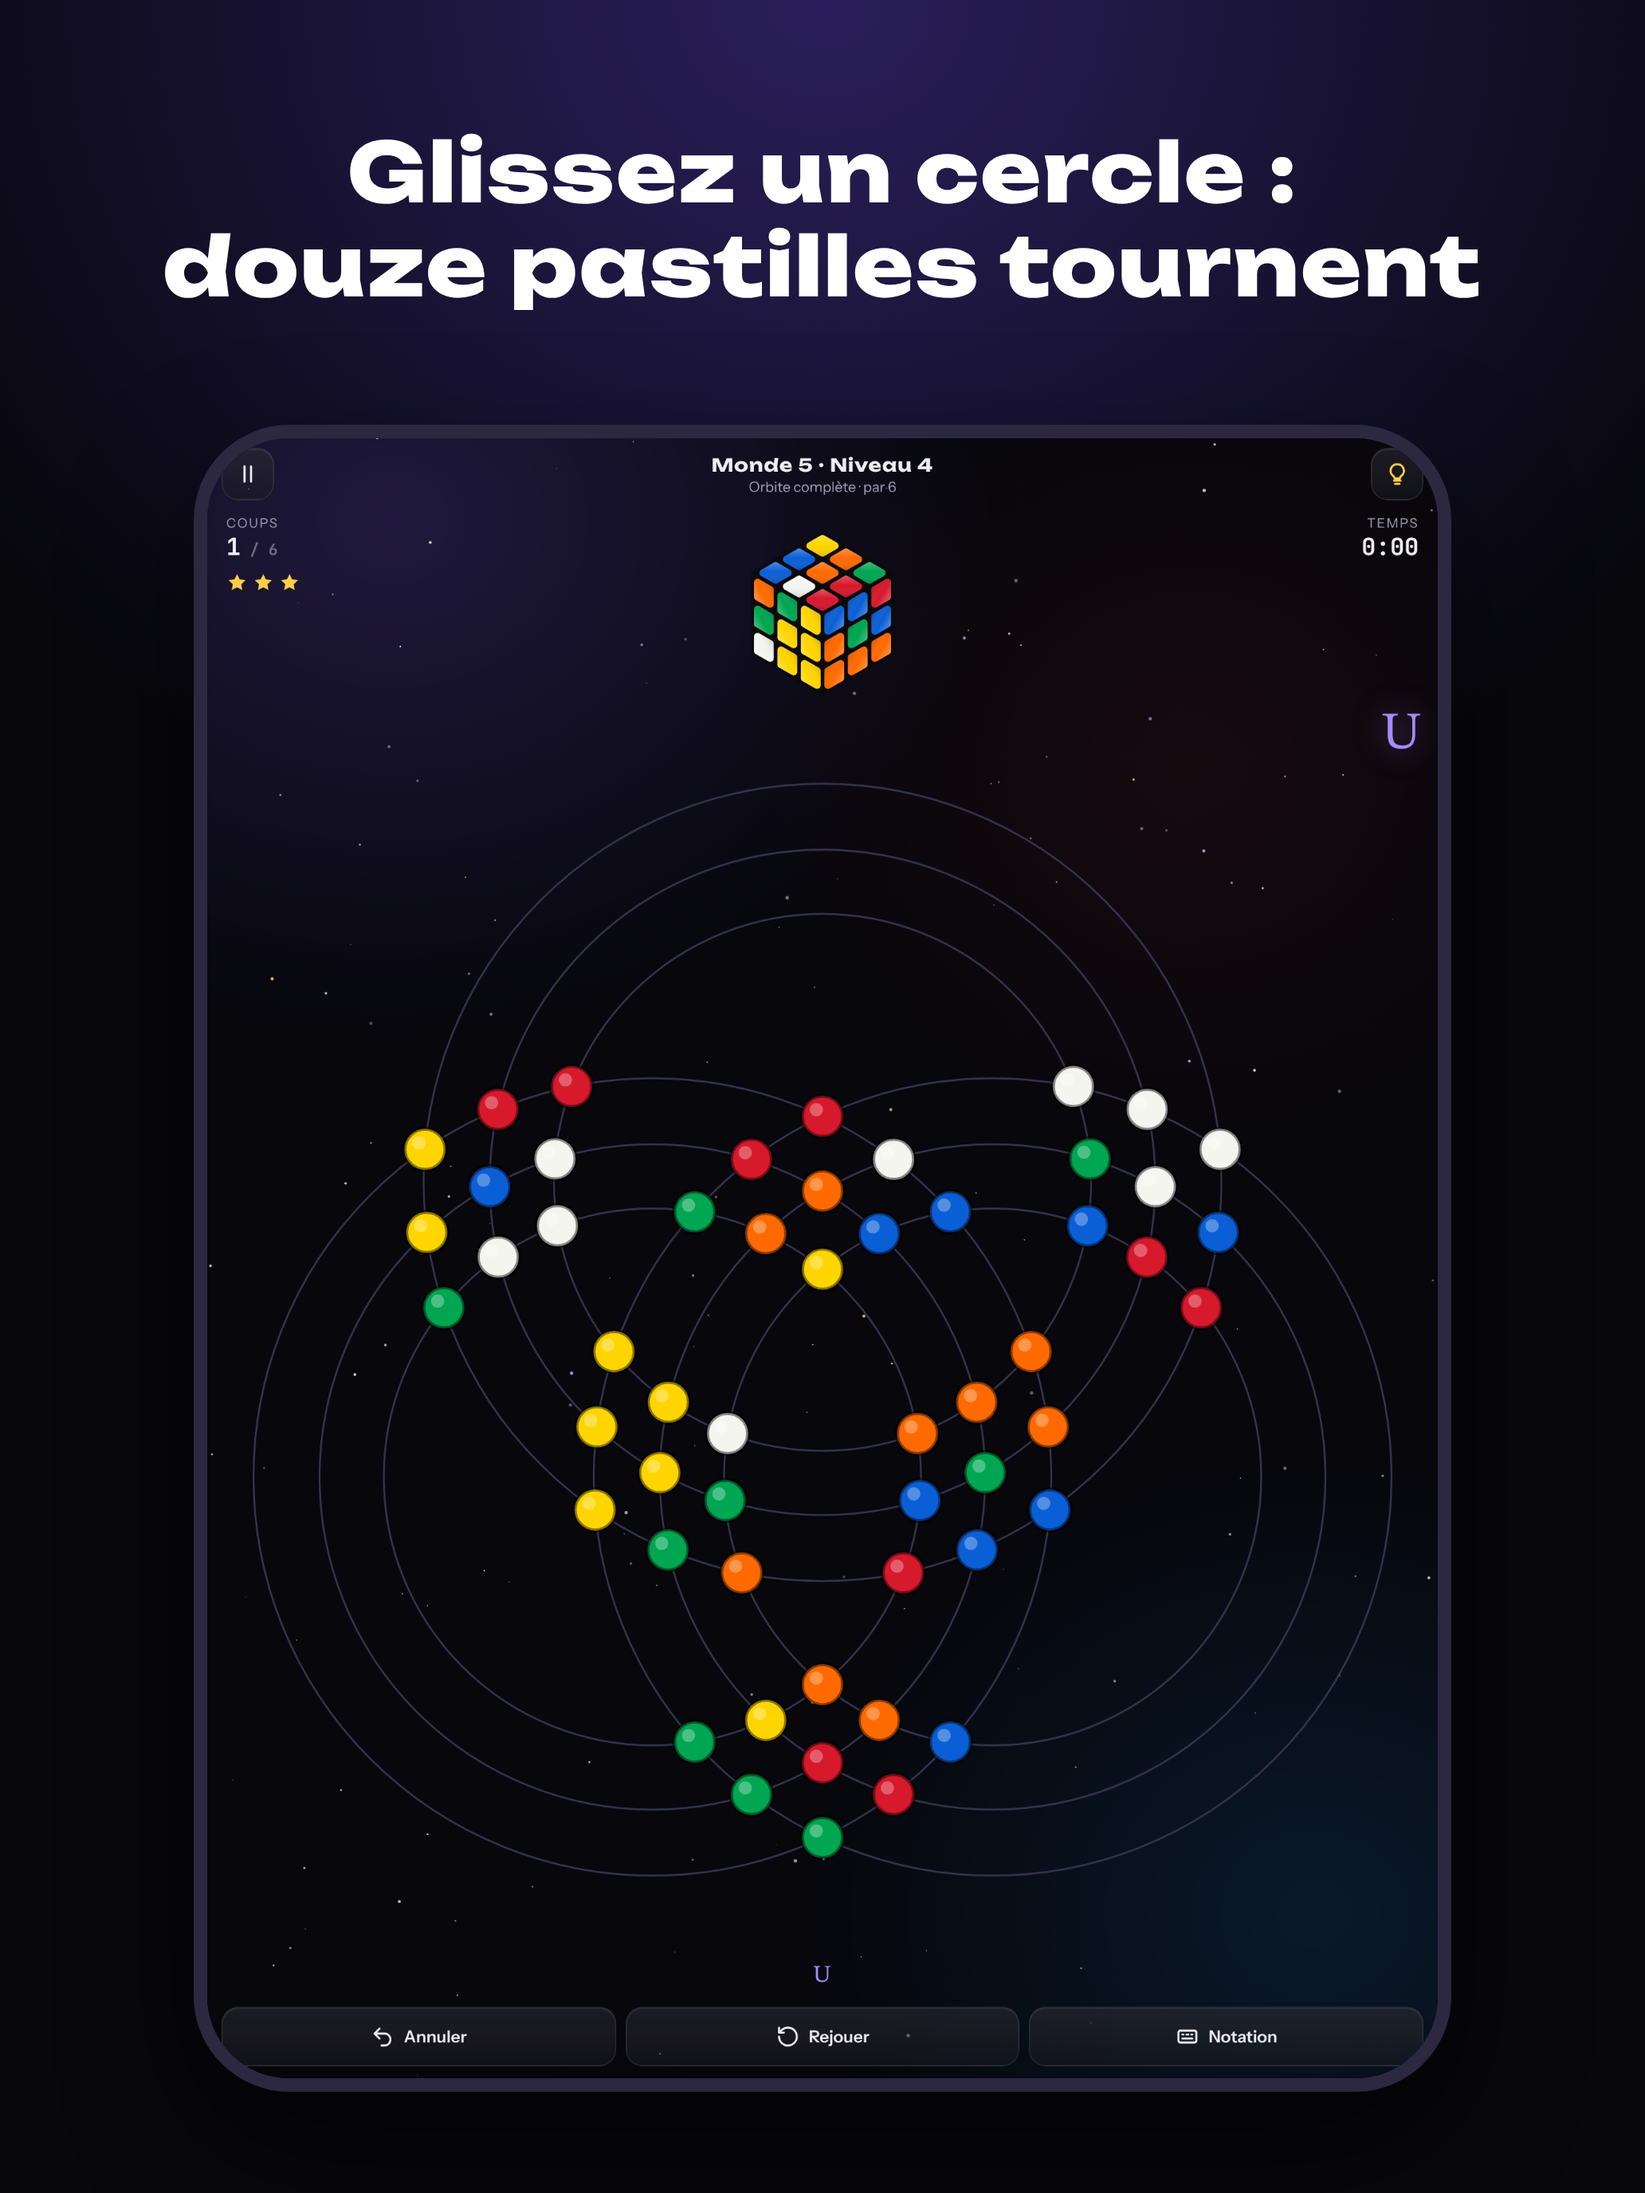
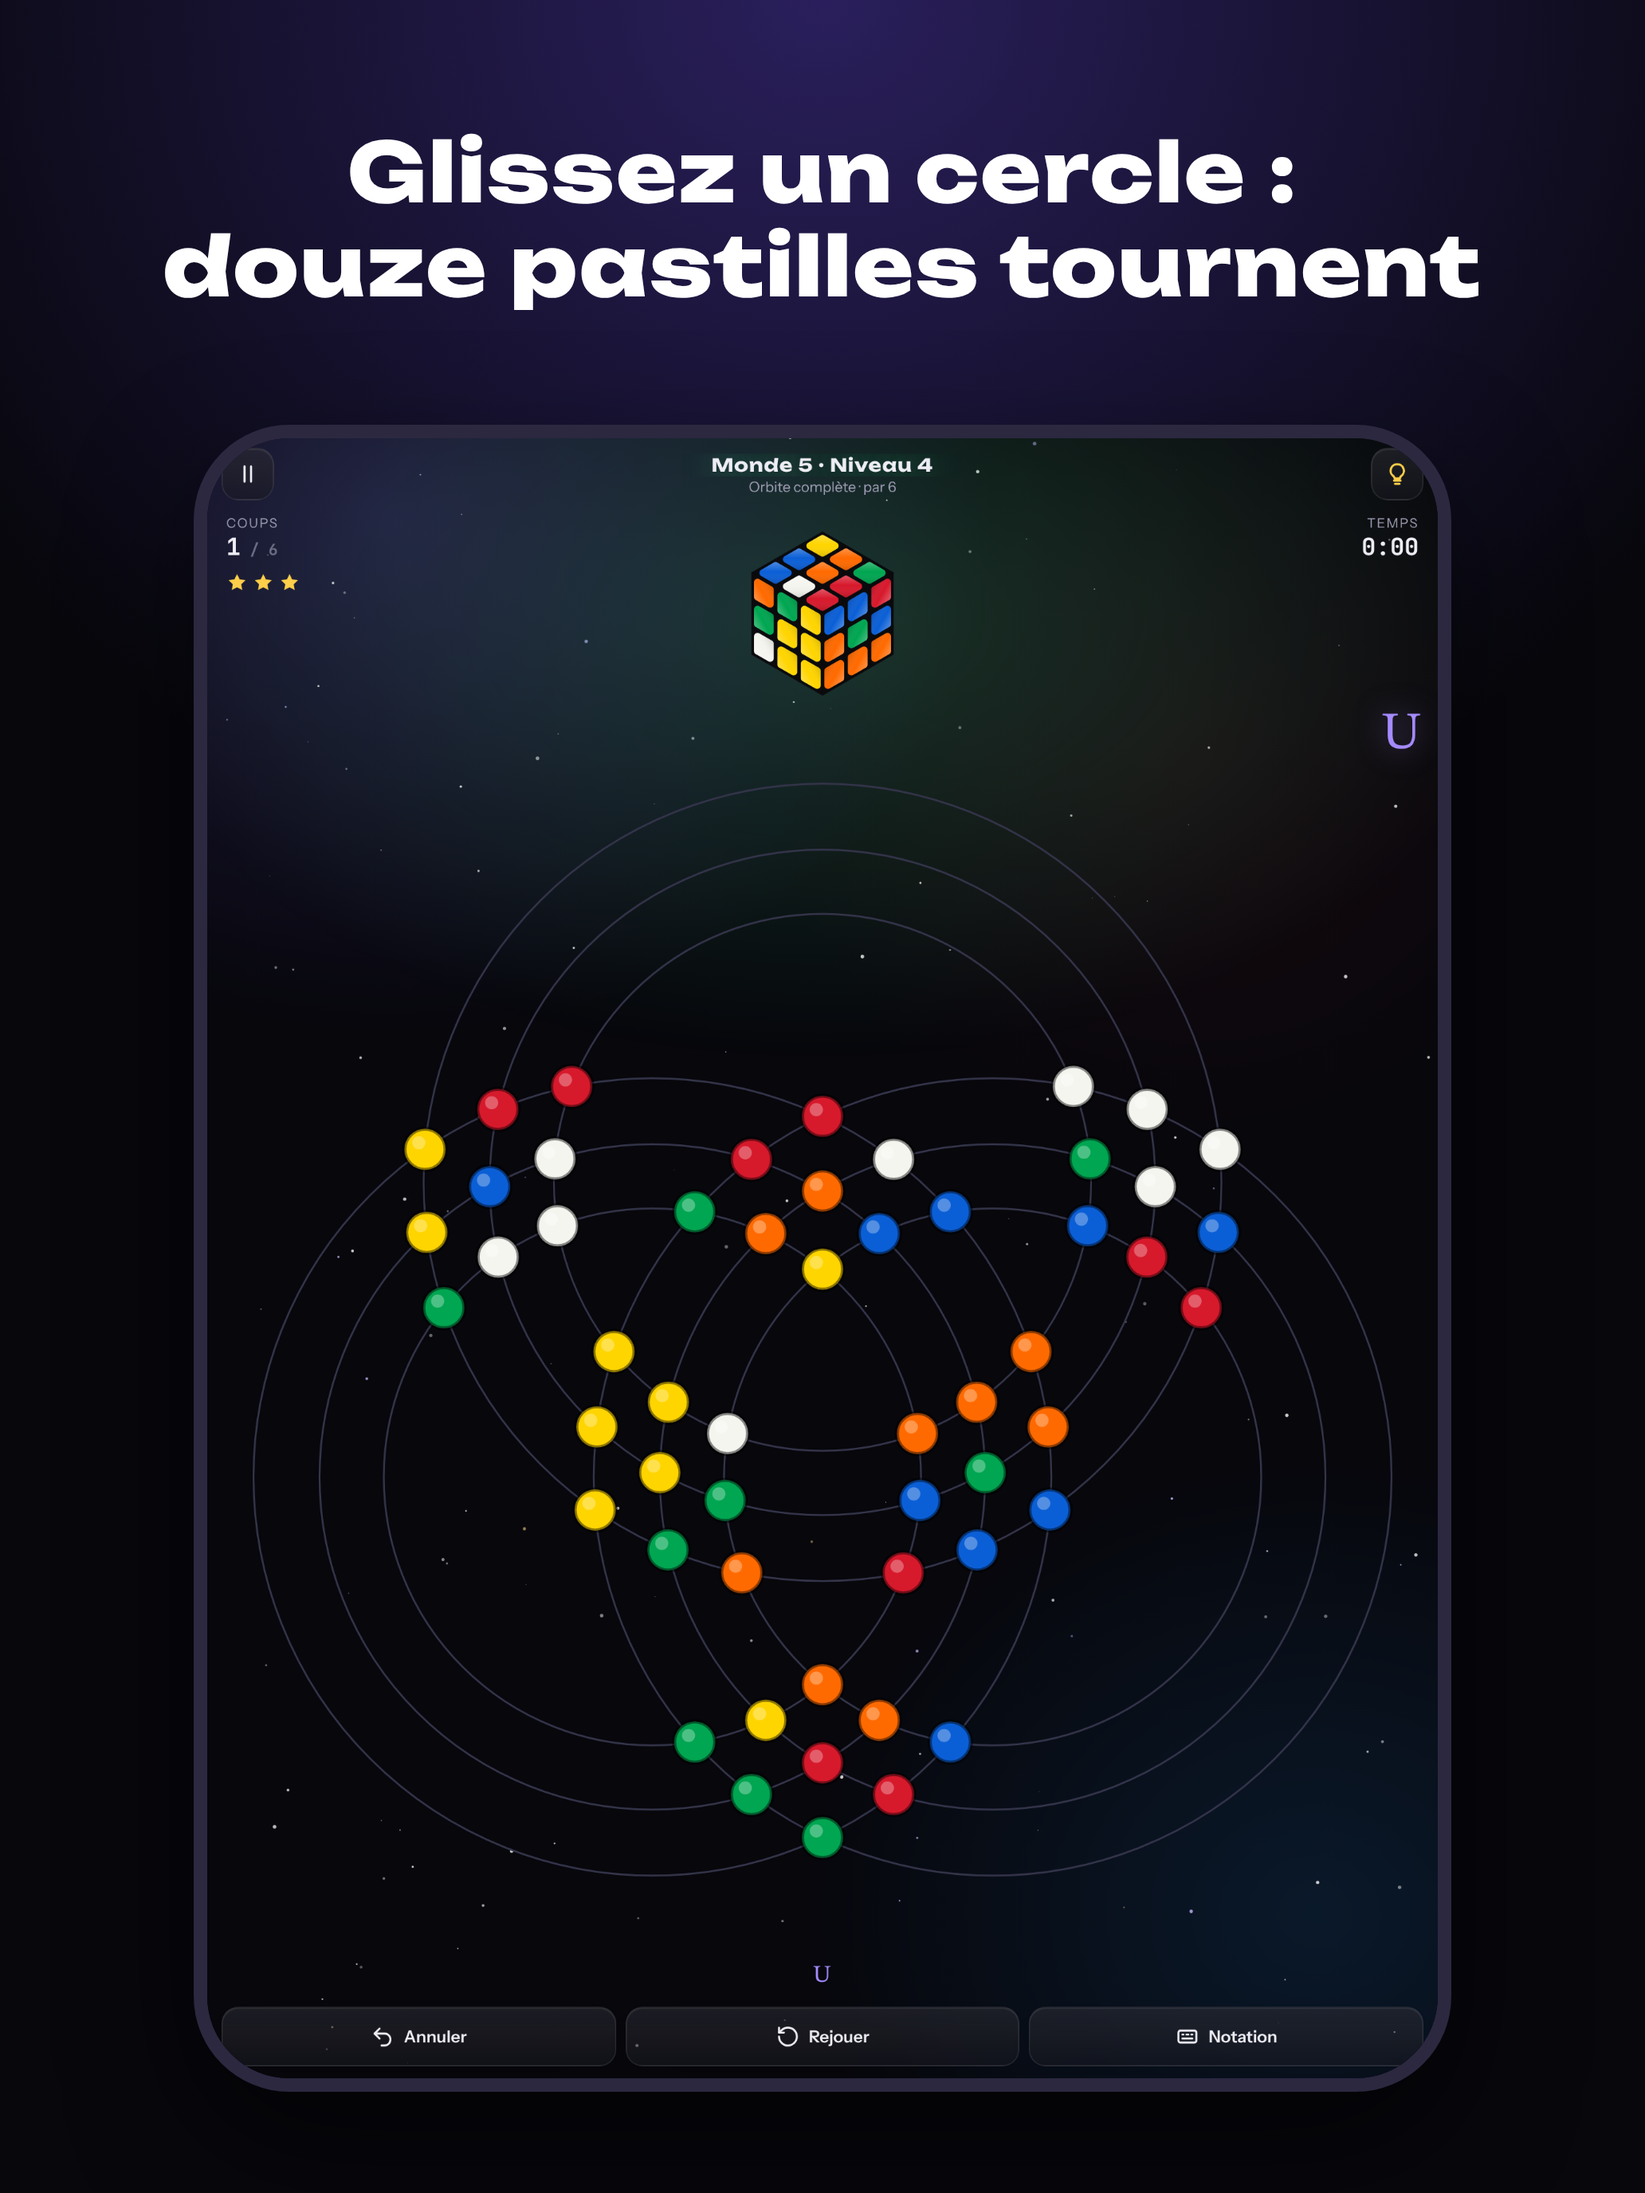
Une couleur d'ambiance par monde, reflet sur le titre
Chaque monde a son accent (lilas, cyan, rose, orange, vert, or) : sa carte, ses niveaux, le cercle
saisi, la vague de victoire et une lueur douce derrière l'écran le prennent. Accueil, défi du jour
et partie libre gardent le lilas. Un reflet passe lentement sur le nom du jeu.

Claude-Session: https://claude.ai/code/session_0149xvqQAFsWoXJkF64USQEK

Changed region(s): [[0.3101, 0.1875, 0.6822, 0.375]]

diff --git a/orbicube/www/index.html b/orbicube/www/index.html
@@ -288,7 +288,7 @@ a.bouton{text-decoration:none;color:inherit}
 /* ===== Habillage moderne (11/10/2026) : surfaces en verre dépoli, bords lumineux, profondeur douce =====
    Pas de backdrop-filter sur les surfaces : le ciel étoilé est animé, et un flou recalculé à chaque image
    sous une dizaine de cartes ferait ramer un téléphone. Le verre est simulé par un dégradé translucide. */
-:root{--verre:linear-gradient(180deg,rgba(255,255,255,.075),rgba(255,255,255,.025));--bord:rgba(255,255,255,.09);
+:root{--acc:165,139,255;--verre:linear-gradient(180deg,rgba(255,255,255,.075),rgba(255,255,255,.025));--bord:rgba(255,255,255,.09);
   --reflet:inset 0 1px 0 rgba(255,255,255,.07);--ombre:0 14px 34px -22px rgba(0,0,0,.9);--r:18px}
 .bouton,.ico,.action,.monde,.niveau,.groupe,.tuile,.suc,.puce,.segment{background:var(--verre),rgba(14,14,24,.55);border-color:var(--bord);
   box-shadow:var(--reflet),var(--ombre)}
@@ -299,12 +299,21 @@ a.bouton{text-decoration:none;color:inherit}
 .bouton.principal svg{fill:#fff}
 .bouton.or{background:linear-gradient(135deg,rgba(255,207,74,.13),rgba(255,207,74,.03)),rgba(14,14,24,.55);border-color:rgba(255,207,74,.32)}
 .niveau{border-radius:16px}
-.niveau.fait{background:linear-gradient(180deg,rgba(165,139,255,.16),rgba(165,139,255,.04)),rgba(14,14,24,.55);border-color:rgba(165,139,255,.28)}
-.niveau.courant{background:linear-gradient(180deg,rgba(165,139,255,.28),rgba(165,139,255,.08)),rgba(14,14,24,.6);border-color:var(--lilas);
-  box-shadow:0 0 0 1px var(--lilas),0 0 26px -6px var(--lilas);animation:respire 2.6s ease-in-out infinite}
-@keyframes respire{50%{box-shadow:0 0 0 1px var(--lilas),0 0 34px -4px var(--lilas)}}
+.niveau.fait{background:linear-gradient(180deg,rgba(var(--acc),.16),rgba(var(--acc),.04)),rgba(14,14,24,.55);border-color:rgba(var(--acc),.3)}
+.niveau.courant{background:linear-gradient(180deg,rgba(var(--acc),.3),rgba(var(--acc),.08)),rgba(14,14,24,.6);border-color:rgb(var(--acc));
+  box-shadow:0 0 0 1px rgb(var(--acc)),0 0 26px -6px rgb(var(--acc));animation:respire 2.6s ease-in-out infinite}
+@keyframes respire{50%{box-shadow:0 0 0 1px rgb(var(--acc)),0 0 36px -4px rgb(var(--acc))}}
 .monde{border-radius:20px}
-.monde:not(.verrou):not(.paye){border-color:rgba(165,139,255,.22)}
+.monde:not(.verrou):not(.paye){border-color:rgba(var(--acc),.3);background:radial-gradient(120% 140% at 0% 0%,rgba(var(--acc),.16),rgba(var(--acc),0) 55%),var(--verre),rgba(14,14,24,.55)}
+.monde .num{color:rgb(var(--acc))}
+#niveaux .tete h2,#niveaux .niv-intro{text-shadow:0 0 28px rgba(var(--acc),.45)}
+.jtitre b{text-shadow:0 0 24px rgba(var(--acc),.5)}
+/* l'ambiance du monde : une lueur douce de sa couleur derrière l'écran des niveaux et la partie */
+#niveaux::before,#jeu::before{content:"";position:absolute;inset:-10% -20% auto;height:70%;pointer-events:none;z-index:-1;
+  background:radial-gradient(60% 55% at 50% 30%,rgba(var(--acc),.2),rgba(var(--acc),0) 70%);transition:background .6s}
+/* le nom du jeu : un reflet passe lentement sur les lettres */
+.marque{background-image:linear-gradient(100deg,#fff 0%,#d9ceff 22%,#a58bff 42%,#fff 50%,#a58bff 58%,#d9ceff 78%,#fff 100%);background-size:220% 100%;animation:lueur 6s ease-in-out infinite,reflet-titre 7s ease-in-out infinite}
+@keyframes reflet-titre{0%,60%{background-position:100% 0}100%{background-position:-20% 0}}
 .segment{border-radius:14px}
 .segment button.on{background:linear-gradient(180deg,rgba(255,255,255,.14),rgba(255,255,255,.06));box-shadow:inset 0 1px 0 rgba(255,255,255,.12)}
 .niv-intro,.fenetre p,.monde p{text-wrap:balance}
@@ -593,14 +602,14 @@ Plateau.prototype.dessiner=function(now){var cx=this.cx,W=this.taille,E=this.ECH
   var act=this.anim?cleA(this.anim.mv):null,ind=this.indice?cleA(this.indice):null,vg=this.vague?now-this.vague:-1,ordre=0;
   for(var a=0;a<3;a++)for(var L=-1;L<=1;L++){var k=a+","+L,c=this.vers(CEN[a]),ok=this.permisA(k);
     cx.save();cx.beginPath();cx.arc(c[0],c[1],RAY[L+1]*E,0,Math.PI*2);
-    if(k===act){halo(cx,"165,139,255",.9,Math.max(2,E*.022));cx.strokeStyle="rgba(214,206,255,.45)";cx.lineWidth=Math.max(2,E*.022);}
+    if(k===act){halo(cx,ACC,.9,Math.max(2,E*.022));cx.strokeStyle="rgba("+ACC_CLAIR+",.5)";cx.lineWidth=Math.max(2,E*.022);}
     else if(k===ind){var pl=.5+.5*Math.sin(now/220);halo(cx,"255,207,74",.5+.5*pl,Math.max(2.5,E*.03));cx.strokeStyle="rgba(255,207,74,"+(.45+.5*pl)+")";cx.lineWidth=Math.max(2.5,E*.03);}
     else if(!ok){cx.strokeStyle="rgba(70,70,96,.4)";cx.lineWidth=1.2;cx.setLineDash([3,6]);}
-    else if(this.survol&&k===this.survol){cx.strokeStyle="rgba(165,139,255,.9)";cx.lineWidth=Math.max(2,E*.024);}
+    else if(this.survol&&k===this.survol){cx.strokeStyle="rgba("+ACC+",.9)";cx.lineWidth=Math.max(2,E*.024);}
     else{cx.strokeStyle=this.permis?"#55527e":"#34344a";cx.lineWidth=this.permis?2:1.6;}
     cx.stroke();
     if(vg>=0){var dk=(vg-ordre*75)/450;if(dk>0&&dk<1){cx.beginPath();cx.arc(c[0],c[1],RAY[L+1]*E,0,Math.PI*2);cx.setLineDash([]);
-      halo(cx,"165,139,255",Math.sin(dk*Math.PI),Math.max(3,E*.045));cx.strokeStyle="rgba(226,218,255,"+Math.sin(dk*Math.PI)+")";cx.lineWidth=Math.max(3,E*.045);cx.stroke();}}
+      halo(cx,ACC,Math.sin(dk*Math.PI),Math.max(3,E*.045));cx.strokeStyle="rgba("+ACC_CLAIR+","+Math.sin(dk*Math.PI)+")";cx.lineWidth=Math.max(3,E*.045);cx.stroke();}}
     cx.restore();ordre++;}
   if(vg>1700)this.vague=0;
   if(this.opts.comete&&!CALME)this.comete(now);
@@ -704,6 +713,10 @@ function dessinerCube(cc,w,col,anim,pivot){cc.clearRect(0,0,w,w);var k=w/6.6,ox=
     cc.fillStyle=g;cc.fill();cc.globalAlpha=1;});});}
 
 /* ========== 5. LES NIVEAUX ========== */
+// Chaque monde a sa couleur d'accent : cartes, niveaux, cercle saisi et vague de victoire la prennent.
+var ACCENTS=["165,139,255","76,201,240","255,107,157","255,170,64","80,226,150","255,209,102"],ACC="165,139,255",ACC_CLAIR="214,206,255";
+function eclaircir(rgb,k){return rgb.split(",").map(function(v){return Math.round(+v+(255-v)*k);}).join(",");}
+function accent(w){ACC=w==null?"165,139,255":ACCENTS[w%ACCENTS.length];ACC_CLAIR=eclaircir(ACC,.65);document.documentElement.style.setProperty("--acc",ACC);}
 var MONDES=[
   {nom:"Premier cercle",desc:"Deux cercles, U et R. Le geste s’apprend ici.",anneaux:["U","R"],coups:[1,1,2,2,2,3,3,3,4,4]},
   {nom:"Trois faces",desc:"U, R et F se croisent : chaque pastille hésite entre deux chemins.",anneaux:["U","R","F"],coups:[2,2,3,3,3,4,4,4,5,5]},
@@ -767,7 +780,7 @@ function vibrer(ms){if(!PROG.options.vib)return;if(NATIF.vibrer(Array.isArray(ms
 /* ========== 8. NAVIGATION ========== */
 var ECRAN="accueil";
 // sens : +1 on avance (l'écran arrive de la droite), −1 on revient (il arrive de la gauche)
-function montrer(id,sens){sens=sens||1;document.querySelectorAll(".ecran").forEach(function(e){
+function montrer(id,sens){if(id==="accueil"||id==="mondes")accent(null);sens=sens||1;document.querySelectorAll(".ecran").forEach(function(e){
     if(e.id===id){e.style.transition="none";e.style.setProperty("--dx",(sens*28)+"px");void e.offsetWidth;e.style.transition="";e.classList.add("actif");}
     else{if(e.classList.contains("actif"))e.style.setProperty("--dx",(-sens*28)+"px");e.classList.remove("actif");}});ECRAN=id;
   numeroter(document.getElementById(id));
@@ -810,13 +823,13 @@ function mondeOuvert(w){return !mondePaye(w)&&(w===0||!!PROG.niveaux[w+"-"+MONDE
 function niveauOuvert(w,i){return mondeOuvert(w)&&(i===0||!!PROG.niveaux[(w+1)+"-"+i]);}
 function etoilesMonde(w){var t=0;for(var i=0;i<MONDES[w].coups.length;i++){var r=PROG.niveaux[(w+1)+"-"+(i+1)];if(r)t+=r.etoiles;}return t;}
 function rafraichirMondes(){document.getElementById("mondesEt").textContent=etoilesTotal()+"/"+NB_NIV*3;var l=document.getElementById("listeMondes");l.innerHTML="";
-  MONDES.forEach(function(M,w){var ouvert=mondeOuvert(w),et=etoilesMonde(w),max=M.coups.length*3,b=document.createElement("button");b.type="button";b.className="monde"+(ouvert?"":" verrou")+(mondePaye(w)?" paye":"");
+  MONDES.forEach(function(M,w){var ouvert=mondeOuvert(w),et=etoilesMonde(w),max=M.coups.length*3,b=document.createElement("button");b.type="button";b.className="monde"+(ouvert?"":" verrou")+(mondePaye(w)?" paye":"");b.style.setProperty("--acc",ACCENTS[w]);
     b.innerHTML='<canvas></canvas><div><div class="num">Monde '+(w+1)+'</div><h3>'+M.nom+'</h3><p>'+(ouvert?M.desc:mondePaye(w)?"Inclus dans le jeu complet.":"Terminez le monde "+w+" pour l’ouvrir.")+'</p><div class="barre"><i style="width:'+(et/max*100)+'%"></i></div><div class="compte"><span>'+et+' / '+max+' ★</span><span>'+M.anneaux.join(" ")+'</span></div></div>'+(ouvert?"":'<svg class="cadenas" viewBox="0 0 24 24">'+CAD+'</svg>');
     b.addEventListener("click",function(){if(mondePaye(w)){sonClic();ouvrirBoutique("monde");return;}if(!ouvert){vibrer(20);avertir("Verrouillé","Terminez d’abord le monde "+w+".");return;}sonClic();ouvrirMonde(w);});
     l.appendChild(b);vignetteMonde(b.querySelector("canvas"),M.anneaux,ouvert);});}
 function vignetteMonde(cv,anneaux,ouvert){var p=new Plateau(cv,{etiquettes:false});p.permis={};anneaux.forEach(function(b){p.permis[MV[b][0]+","+MV[b][1]]=true;});
   if(!ouvert)p.col=p.col.map(function(){return 3;});p.dimension(56);}
-function ouvrirMonde(w){var M=MONDES[w];document.getElementById("nivTitre").textContent=M.nom;document.getElementById("nivEt").textContent=etoilesMonde(w)+"/"+M.coups.length*3;
+function ouvrirMonde(w){var M=MONDES[w];accent(w);document.getElementById("nivTitre").textContent=M.nom;document.getElementById("nivEt").textContent=etoilesMonde(w)+"/"+M.coups.length*3;
   document.getElementById("nivIntro").textContent=M.desc+" Cercles : "+M.anneaux.join(" · ")+".";
   var g=document.getElementById("grilleNiv");g.innerHTML="";var pn=prochainNiveau();
   M.coups.forEach(function(par,i){var r=PROG.niveaux[(w+1)+"-"+(i+1)],ouvert=niveauOuvert(w,i),b=document.createElement("button");b.type="button";
@@ -851,7 +864,7 @@ var ro=new ResizeObserver(function(){if(ECRAN==="jeu")redimJeu();if(ECRAN==="acc
 ["zonePlateau","logo","aideCanvas"].forEach(function(id){ro.observe(document.getElementById(id));});
 ro.observe(document.querySelector(".logoboite"));
 
-function lancer(def){J={def:def,hist:[],t0:0,fini:false,indice:false,pret:false,tranches:{}};
+function lancer(def){accent(def.mode==="campagne"?def.w:null);J={def:def,hist:[],t0:0,fini:false,indice:false,pret:false,tranches:{}};
   JeuP.col=resoluCol();JeuP.anim=null;JeuP.file=[];JeuP.indice=null;JeuP.survol=null;
   if(def.anneaux.length===9)JeuP.permis=null;else{JeuP.permis={};def.anneaux.forEach(function(b){JeuP.permis[MV[b][0]+","+MV[b][1]]=true;});}
   document.getElementById("jTitre").textContent=def.titre;document.getElementById("jSous").textContent=def.sous+" · par "+def.par;

diff --git a/orbicube/www/sw.js b/orbicube/www/sw.js
@@ -1,6 +1,6 @@
 // Version web (PWA) : tout le jeu est mis en cache pour se jouer hors ligne.
 // Incrémenter V à chaque publication, sinon les joueurs gardent l'ancienne version.
-var V = "orbicube-v18";
+var V = "orbicube-v19";
 var FICHIERS = ["./", "index.html", "config.js", "natif.js", "langues.js", "manifest.webmanifest", "confidentialite.html",
   "icones/favicon.png", "icones/apple-touch-icon.png", "icones/icon-192.png", "icones/icon-512.png", "icones/icon-maskable-512.png",
   "polices/polices.css", "polices/Unbounded-normal-700.woff2", "polices/Unbounded-normal-800.woff2",

diff --git a/CLAUDE.md b/CLAUDE.md
@@ -63,6 +63,8 @@ contresens). Un contrôle neuf s'éprouve de la même façon avant d'être cru.
   campagne ; une apparence choisie puis reperdue (progression effacée) retombe sur Classique.
 - **Fin de niveau** : les six faces s'illuminent l'une après l'autre et le cube fait un tour sur
   lui-même (`PIVOT` n'est animé que là) ; « Revoir ma partie » rejoue le mélange puis les coups (`revoir()`).
+- **Couleur d'accent par monde** (`ACCENTS`, `accent(w)`) : variable CSS `--acc` (triplet r,g,b) et
+  `ACC` pour le canevas (cercle saisi, vague de victoire). Accueil, défi et partie libre : le lilas.
 - Les niveaux de campagne sont tirés d'une graine fixe (`orbicube-<monde>-<niveau>`) : changer
   `genererMelange()` change tous les niveaux des joueurs. Ne le faire qu'avec une nouvelle graine.
 - La progression est dans `localStorage` (clé `orbicube-v1`) et, sur téléphone, dans
